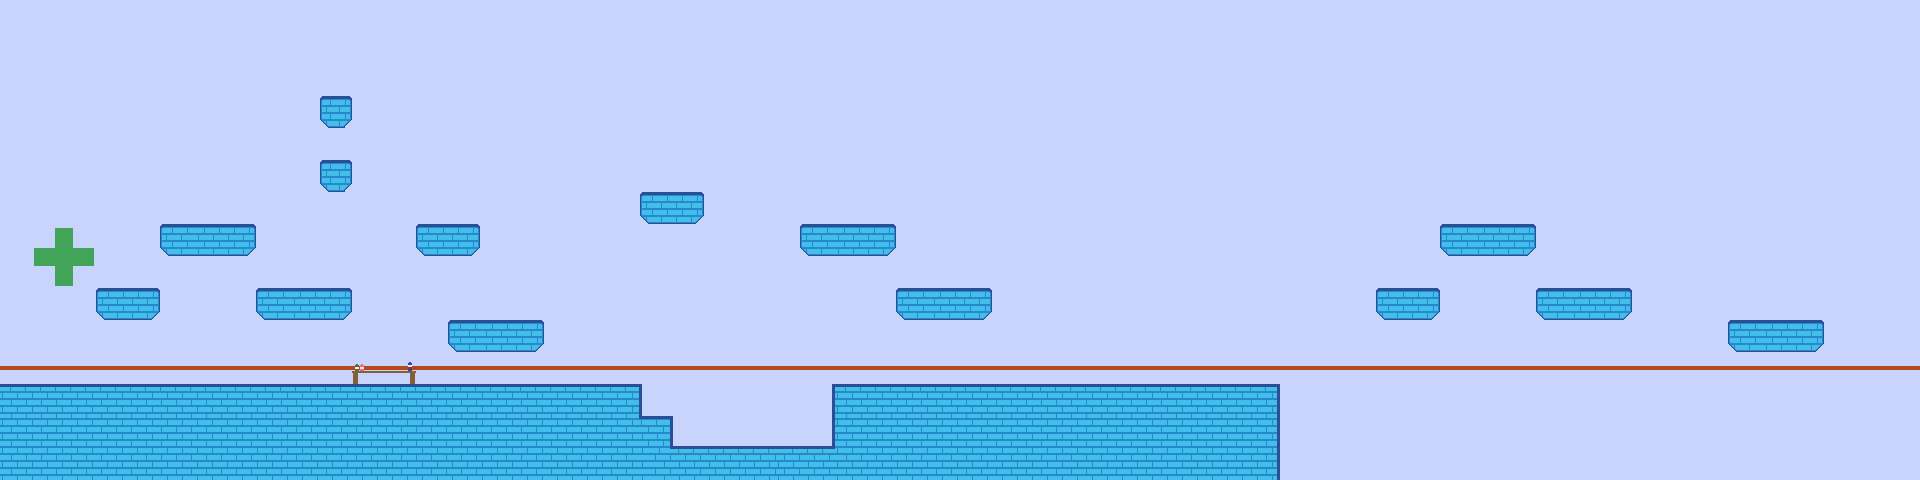
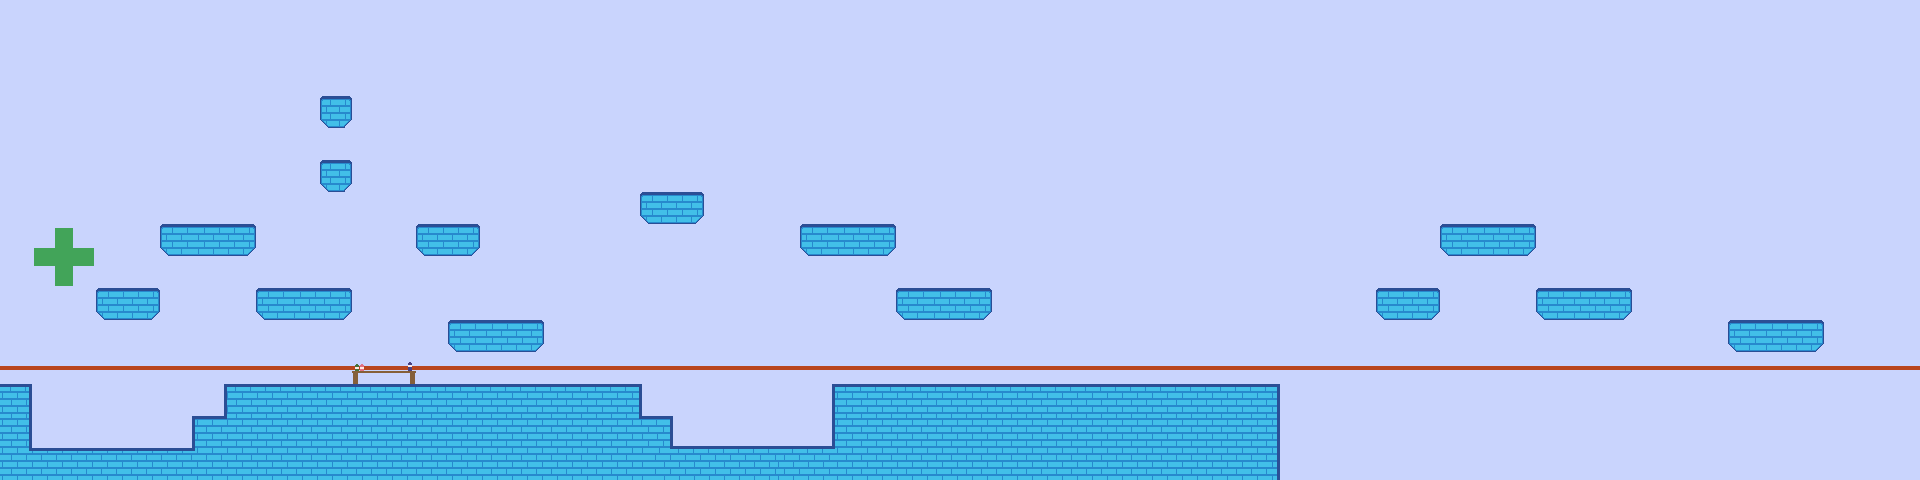
side wall and core gamplay

Changed region(s): [[0.0, 0.7812, 0.125, 0.9375]]

diff --git a/src/player.rs b/src/player.rs
@@ -18,6 +18,16 @@ pub struct PlayerVelocity {
 }
 
 #[derive(Component)]
+pub struct PlayerStats {
+    pub float_gravity: f32,
+    pub true_gravity: f32,
+    pub player_accel: f32,
+    pub player_deccel: f32,
+    pub player_max_velocity: f32,
+    pub jump_strength: f32,
+}
+
+#[derive(Component)]
 pub struct PlayerFeetParticles;
 
 #[derive(Component)]
@@ -26,11 +36,11 @@ pub struct PlayerHeadParticles;
 fn player_pickups(
     mut commands: Commands,
     sensors: Query<&Name, With<Sensor>>,
-    player: Query<(&mut PlayerVelocity, &Transform), With<PlayerVelocity>>,
+    mut player: Query<(&mut PlayerStats, &Transform), With<PlayerVelocity>>,
     rapier_context: Res<RapierContext>,
     mut texture: Query<&mut Visibility, With<Handle<ChromaticAbrasionMaterial>>>,
 ) {
-    for (_player, transform) in &player {
+    for (mut stats, transform) in &mut player {
         let shape = Collider::cuboid(15.0, 15.0);
         let shape_pos = transform.translation.truncate();
         let filter = QueryFilter::default();
@@ -38,6 +48,7 @@ fn player_pickups(
         rapier_context.intersections_with_shape(shape_pos, 0.0, &shape, filter, |entity| {
             if let Ok(sensors) = sensors.get(entity) {
                 info!("Hit {:?} {:?}", entity, sensors);
+                stats.jump_strength = 320.0;
                 for mut visible in &mut texture {
                     *visible = Visibility::Visible;
                 }
@@ -73,41 +84,36 @@ fn player_animation(mut player: Query<(&mut TextureAtlasSprite, &PlayerVelocity)
 }
 
 fn player_gravity(
-    mut player: Query<&mut PlayerVelocity>,
+    mut player: Query<(&mut PlayerVelocity, &PlayerStats)>,
     keyboard: Res<Input<KeyCode>>,
     time: Res<Time>,
 ) {
-    let float_gravity = -450.0;
-    let true_gravity = -1500.0;
-    for mut velocity in player.iter_mut() {
+    for (mut velocity, stats) in player.iter_mut() {
         if keyboard.pressed(KeyCode::Space) {
-            velocity.velocity += Vec2::new(0.0, float_gravity * time.delta_seconds());
+            velocity.velocity += Vec2::new(0.0, stats.float_gravity * time.delta_seconds());
         } else {
-            velocity.velocity += Vec2::new(0.0, true_gravity * time.delta_seconds());
+            velocity.velocity += Vec2::new(0.0, stats.true_gravity * time.delta_seconds());
         }
     }
 }
 
 fn player_control(
-    mut player: Query<&mut PlayerVelocity>,
+    mut player: Query<(&mut PlayerVelocity, &PlayerStats)>,
     keyboard: Res<Input<KeyCode>>,
     time: Res<Time>,
 ) {
-    let player_accel = 600.0;
-    let player_deccel = 450.0;
-    let player_max_velocity = 225.0;
-    for mut velocity in player.iter_mut() {
+    for (mut velocity, stats) in player.iter_mut() {
         if keyboard.pressed(KeyCode::A) {
-            velocity.velocity += Vec2::new(-player_accel * time.delta_seconds(), 0.0);
+            velocity.velocity += Vec2::new(-stats.player_accel * time.delta_seconds(), 0.0);
         }
         if keyboard.pressed(KeyCode::D) {
-            velocity.velocity += Vec2::new(player_accel * time.delta_seconds(), 0.0);
+            velocity.velocity += Vec2::new(stats.player_accel * time.delta_seconds(), 0.0);
         }
         if !keyboard.pressed(KeyCode::A) && !keyboard.pressed(KeyCode::D) {
             //TODO time dependent slow down?
             //FIXME gives the shakes
             let deccel_amount =
-                -player_deccel * velocity.velocity.x.signum() * time.delta_seconds();
+                -stats.player_deccel * velocity.velocity.x.signum() * time.delta_seconds();
             if velocity.velocity.x.abs() < deccel_amount.abs() {
                 velocity.velocity.x = 0.0;
             } else {
@@ -118,17 +124,20 @@ fn player_control(
         velocity.velocity.x = velocity
             .velocity
             .x
-            .clamp(-player_max_velocity, player_max_velocity);
+            .clamp(-stats.player_max_velocity, stats.player_max_velocity);
     }
 }
 
 fn player_jump(
-    mut controllers: Query<(&KinematicCharacterControllerOutput, &mut PlayerVelocity)>,
+    mut controllers: Query<(
+        &KinematicCharacterControllerOutput,
+        &mut PlayerVelocity,
+        &PlayerStats,
+    )>,
     mut player_particles: Query<&mut RectParticleEmitter, With<PlayerHeadParticles>>,
     keyboard: Res<Input<KeyCode>>,
 ) {
-    let jump_strength = 320.0;
-    for (controller, mut velocity) in controllers.iter_mut() {
+    for (controller, mut velocity, stats) in controllers.iter_mut() {
         if controller.desired_translation.y - controller.effective_translation.y > 0.1 {
             let mut particles = player_particles.single_mut();
             particles.force_spawn = 6;
@@ -140,7 +149,7 @@ fn player_jump(
         if controller.grounded {
             velocity.velocity.y = -0.1;
             if keyboard.just_pressed(KeyCode::Space) {
-                velocity.velocity += Vec2::new(0.0, jump_strength);
+                velocity.velocity += Vec2::new(0.0, stats.jump_strength);
                 velocity.last_grounded = 999;
             }
         }

diff --git a/src/main.rs b/src/main.rs
@@ -220,7 +220,7 @@ fn setup_player(
 
     commands
         .spawn((
-            CharacterBundle::new(Vec3::new(30.0, 120.0, CHARACTER_Z), Character::Player),
+            CharacterBundle::new(Vec3::new(55.0, 50.0, CHARACTER_Z), Character::Player),
             RigidBody::KinematicPositionBased,
             //Collider::capsule(Vec2::new(0.0, -6.3), Vec2::new(0.0, 2.5), 20.0 / 2.0),
             Collider::cuboid(17.0 / 2.0, 28.0 / 2.0),
@@ -231,6 +231,15 @@ fn setup_player(
             KinematicCharacterController {
                 filter_flags: QueryFilterFlags::EXCLUDE_SENSORS,
                 ..default()
+            },
+            PlayerStats {
+                float_gravity: -450.0,
+                true_gravity: -1500.0,
+                player_accel: 600.0,
+                player_deccel: 450.0,
+                player_max_velocity: 225.0,
+                jump_strength: 190.0,
+                //jump_strength: 320.0,
             },
             Name::new("Player"),
         ))

diff --git a/src/map.rs b/src/map.rs
@@ -57,6 +57,9 @@ pub fn load_map(commands: &mut Commands, assets: &Res<AssetServer>) {
         );
     }
 
+    //Left wall
+    spawn_hit_box(commands, Vec2::new(1.0, 30.0), Vec2::new(-1.0, 0.0));
+
     commands.spawn((
         SpriteBundle {
             sprite: Sprite { ..default() },
